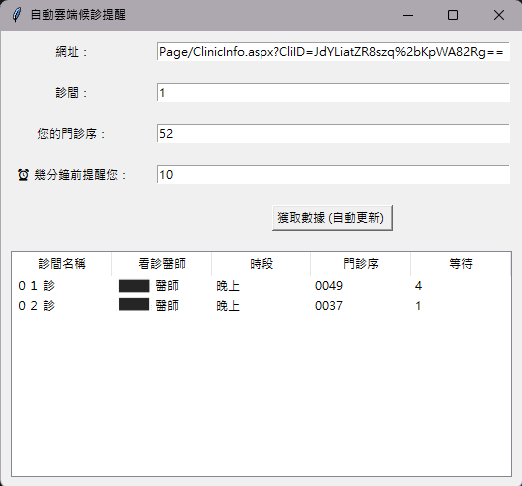
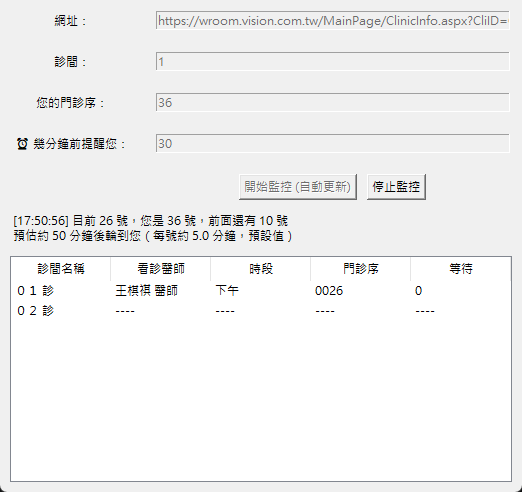
Estimate minutes per patient from observed calling pace
- 新增 PaceEstimator：以最近 60 分鐘的叫號速度估算每號分鐘數
  （至少前進 2 號才採用，限制在 1～5 分鐘，提醒只會提早、不會延後）
- 狀態列顯示預估還要幾分鐘輪到、每號分鐘數與來源（估算／預設值）
- 更新 README 說明、介面截圖與 clone 網址

diff --git a/tests/test_waitlist.py b/tests/test_waitlist.py
@@ -87,3 +87,80 @@ def test_evaluate():
     assert (s.kind, s.ahead) == ("alarm", 6)
     s = evaluate(rows, 1, 50, 30)
     assert (s.kind, s.ahead, s.row.sequence) == ("wait", 37, 13)
+
+
+# ---------- PaceEstimator ----------
+from waitlist import PaceEstimator
+
+MIN = 60
+
+
+def test_pace_no_data_uses_default():
+    p = PaceEstimator()
+    assert p.estimate() is None
+    assert p.minutes_per_patient() == 5
+    p.add(0, 10)
+    p.add(10 * MIN, 11)          # 只前進 1 號，不足以估計
+    assert p.estimate() is None
+    assert p.minutes_per_patient() == 5
+
+
+def test_pace_fast_clinic_estimated():
+    p = PaceEstimator()
+    p.add(0, 10)
+    p.add(5 * MIN, 12)
+    p.add(9 * MIN, 13)           # 9 分鐘 3 號 → 每號 3 分鐘
+    assert p.estimate() == pytest.approx(3)
+    assert p.minutes_per_patient() == pytest.approx(3)
+
+
+def test_pace_slow_clinic_capped_at_default():
+    p = PaceEstimator()
+    p.add(0, 10)
+    p.add(30 * MIN, 12)          # 每號 15 分鐘 → 上限 5，不延後提醒
+    assert p.estimate() == pytest.approx(15)
+    assert p.minutes_per_patient() == 5
+
+
+def test_pace_floor():
+    p = PaceEstimator()
+    p.add(0, 10)
+    p.add(1 * MIN, 20)           # 每號 0.1 分鐘 → 下限 1
+    assert p.minutes_per_patient() == 1
+
+
+def test_pace_unchanged_number_keeps_first_seen_time():
+    p = PaceEstimator()
+    p.add(0, 10)
+    p.add(4 * MIN, 10)
+    p.add(8 * MIN, 10)
+    p.add(8 * MIN + 1, 12)       # 10 號從 0 分開始 → 8 分鐘 2 號 = 4 分/號
+    assert p.estimate() == pytest.approx(4, abs=0.01)
+
+
+def test_pace_resets_when_number_goes_back():
+    p = PaceEstimator()
+    p.add(0, 30)
+    p.add(10 * MIN, 35)
+    p.add(20 * MIN, 1)           # 換時段
+    assert p.estimate() is None
+    p.add(26 * MIN, 3)
+    assert p.estimate() == pytest.approx(3)
+
+
+def test_pace_ignores_none_and_old_history():
+    p = PaceEstimator(window_minutes=60)
+    p.add(0, 1)
+    p.add(5 * MIN, None)
+    p.add(10 * MIN, 2)
+    p.add(100 * MIN, 30)
+    p.add(110 * MIN, 34)         # 舊紀錄被丟掉，只看 100~110 分：10 分鐘 4 號
+    assert p.estimate() == pytest.approx(2.5)
+
+
+def test_evaluate_with_faster_pace_alarms_earlier():
+    from waitlist import evaluate
+    rows = [_row(1, 10)]
+    # 前面 8 號、提前 30 分鐘：每號 5 分 → 門檻 6 號，不提醒；每號 3 分 → 門檻 10 號，提醒
+    assert evaluate(rows, 1, 18, 30, minutes_per_patient=5).kind == "wait"
+    assert evaluate(rows, 1, 18, 30, minutes_per_patient=3).kind == "alarm"

diff --git a/waitlist.py b/waitlist.py
@@ -118,6 +118,55 @@ def patients_ahead_threshold(minutes: int, minutes_per_patient: int = 5) -> int:
     return math.ceil(minutes / minutes_per_patient)
 
 
+DEFAULT_MINUTES_PER_PATIENT = 5
+
+
+class PaceEstimator:
+    """依觀察到的叫號速度估算「每號約幾分鐘」。
+
+    只用最近 window_minutes 內的紀錄，且號碼至少前進 min_advance 號才採用。
+    估計值會限制在 [min_pace, max_pace]：max_pace 預設等於原本的 5 分鐘，
+    因此提醒只會比原本早、不會比原本晚（醫師休息時速度變慢也不會延後提醒）。
+    """
+
+    def __init__(self, max_pace: float = DEFAULT_MINUTES_PER_PATIENT, min_pace: float = 1.0,
+                 window_minutes: float = 60, min_advance: int = 2):
+        self.max_pace = max_pace
+        self.min_pace = min_pace
+        self.window_seconds = window_minutes * 60
+        self.min_advance = min_advance
+        self._history = []  # [(timestamp_seconds, sequence)]
+
+    def add(self, timestamp: float, sequence: Optional[int]):
+        if sequence is None:
+            return
+        if self._history and sequence < self._history[-1][1]:
+            self._history.clear()  # 號碼倒退：換時段或重新開始
+        if self._history and sequence == self._history[-1][1]:
+            return  # 號碼沒變，保留第一次看到該號的時間
+        self._history.append((timestamp, sequence))
+        cutoff = timestamp - self.window_seconds
+        while len(self._history) > 2 and self._history[0][0] < cutoff:
+            self._history.pop(0)
+
+    def estimate(self) -> Optional[float]:
+        """回傳估計的每號分鐘數；資料不足時回傳 None。"""
+        if len(self._history) < 2:
+            return None
+        (t0, s0), (t1, s1) = self._history[0], self._history[-1]
+        advanced = s1 - s0
+        if advanced < self.min_advance or t1 <= t0:
+            return None
+        return (t1 - t0) / 60 / advanced
+
+    def minutes_per_patient(self) -> float:
+        """提醒判斷用的每號分鐘數：有估計值就用（限制在範圍內），否則用預設值。"""
+        est = self.estimate()
+        if est is None:
+            return self.max_pace
+        return min(max(est, self.min_pace), self.max_pace)
+
+
 class Status(NamedTuple):
     kind: str                      # "not_found" | "not_open" | "passed" | "alarm" | "wait"
     row: Optional[ClinicRow] = None

diff --git a/DoctorChecker.py b/DoctorChecker.py
@@ -6,7 +6,7 @@ from tkinter import messagebox, ttk
 from types import SimpleNamespace
 
 from fetcher import FetchError, WaitlistFetcher
-from waitlist import convert_to_int, evaluate, parse_row
+from waitlist import PaceEstimator, convert_to_int, evaluate, find_clinic, parse_row
 
 POLL_INTERVAL_MS = 30_000      # 每 30 秒更新一次
 RESULT_CHECK_MS = 200          # 檢查背景抓取是否完成的間隔
@@ -32,6 +32,7 @@ state = SimpleNamespace(
     failures=0,
     first_check=True,
     rows=[],
+    pace=PaceEstimator(),
 )
 
 
@@ -72,6 +73,7 @@ def start_monitoring():
     state.running = True
     state.failures = 0
     state.first_check = True
+    state.pace = PaceEstimator()
     for w in (url_entry, clinic_entry, sequence_entry, alarm_time):
         w.config(state="disabled")
     fetch_button.config(state="disabled")
@@ -142,7 +144,12 @@ def on_data(data):
     update_table(rows)
 
     _, clinic, sequence, minutes = state.params
-    status = evaluate(rows, clinic, sequence, minutes, first_check=state.first_check)
+    row = find_clinic(rows, clinic)
+    if row is not None:
+        state.pace.add(time.time(), row.sequence)
+    pace = state.pace.minutes_per_patient()
+    status = evaluate(rows, clinic, sequence, minutes, first_check=state.first_check,
+                      minutes_per_patient=pace)
     state.first_check = False
     now = time.strftime("%H:%M:%S")
 
@@ -160,7 +167,9 @@ def on_data(data):
         stop_monitoring(f"[{now}] 目前 {status.row.sequence} 號，快輪到您（{sequence} 號）了！")
         trigger_alarm()
     else:  # wait
-        set_status(f"[{now}] 目前 {status.row.sequence} 號，您是 {sequence} 號，前面還有 {status.ahead} 號")
+        source = "依叫號速度估算" if state.pace.estimate() is not None else "預設值"
+        set_status(f"[{now}] 目前 {status.row.sequence} 號，您是 {sequence} 號，前面還有 {status.ahead} 號\n"
+                   f"預估約 {status.ahead * pace:.0f} 分鐘後輪到您（每號約 {pace:.1f} 分鐘，{source}）")
         schedule_next()
 
 

diff --git a/README.md b/README.md
@@ -9,6 +9,7 @@
 
 - **自動監控診間狀態**：從「全國雲端候診中心」網站獲取診間資訊。
 - **自定義提醒時間**：根據用戶輸入的門診序號和提前提醒時間，計算提醒時間。
+- **依叫號速度估算**：觀察最近 60 分鐘的叫號速度估算每號所需時間；診間叫號較快時會提早提醒。
 - **鬧鈴提醒**：在指定時間觸發鬧鈴提醒用戶。
 - **圖形化界面**：使用 `tkinter` 提供簡單易用的圖形化界面。
 
@@ -22,8 +23,8 @@
 （例如：`1`、`第一`、`01`皆可）
 3. **輸入門診序號**：輸入你的門診序號<br>
 （例如：`15`）
-4. **設置提前提醒時間**：輸入你希望提前幾分鐘提醒，假設每個門診序號約需 5 分鐘
-<br>（例如：`30`）。
+4. **設置提前提醒時間**：輸入你希望提前幾分鐘提醒<br>
+（例如：`30`）。每號所需時間預設為 5 分鐘；監控期間若觀察到叫號較快（至少前進 2 號後開始估算），會改用實際速度計算，最快以每號 1 分鐘計。估算值不會超過 5 分鐘，因此提醒只會提早、不會延後。
 5. **開始監控**：點擊「開始監控 (自動更新)」按鈕（或在最後一欄按 Enter），工具每 30 秒更新一次，狀態列會顯示目前叫號與前面還有幾號；快輪到你時會跳出視窗並響鈴。可隨時按「停止監控」。
 
 ## 截圖
@@ -45,7 +46,7 @@
 
 1. **複製專案**：
    ```bash
-   git clone https://github.com/your-username/Auto_Doctor_Checker.git
+   git clone https://github.com/partner0487/Auto_Doctor_Checker.git
    cd Auto_Doctor_Checker
    ```
 
